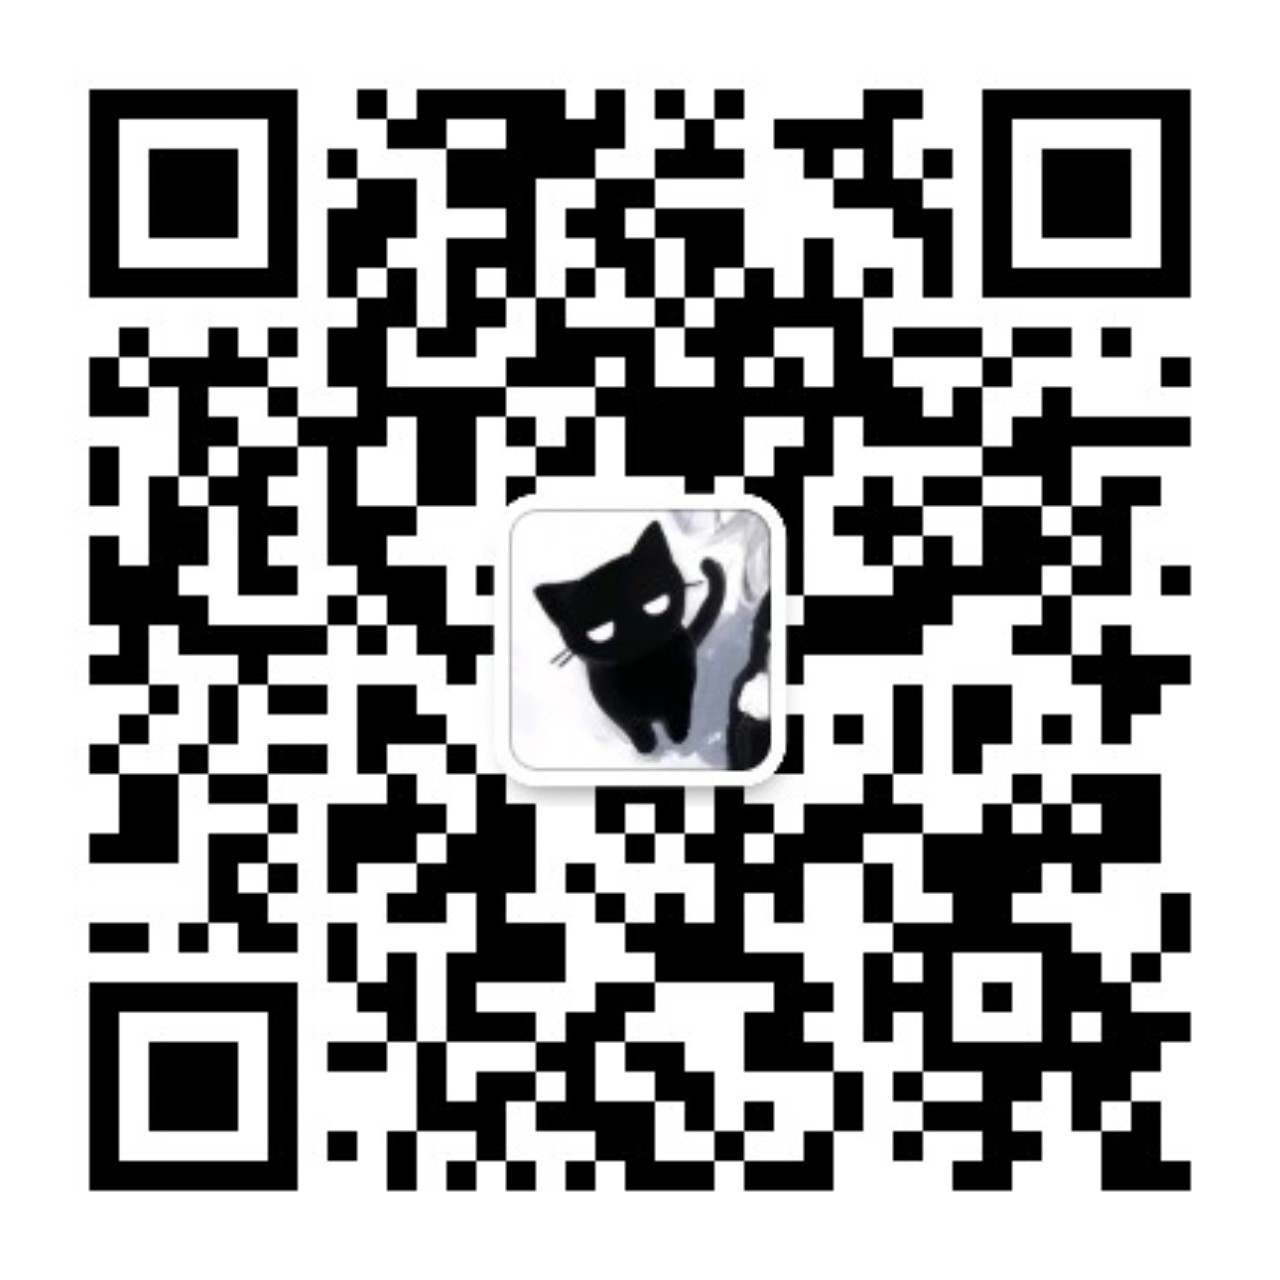
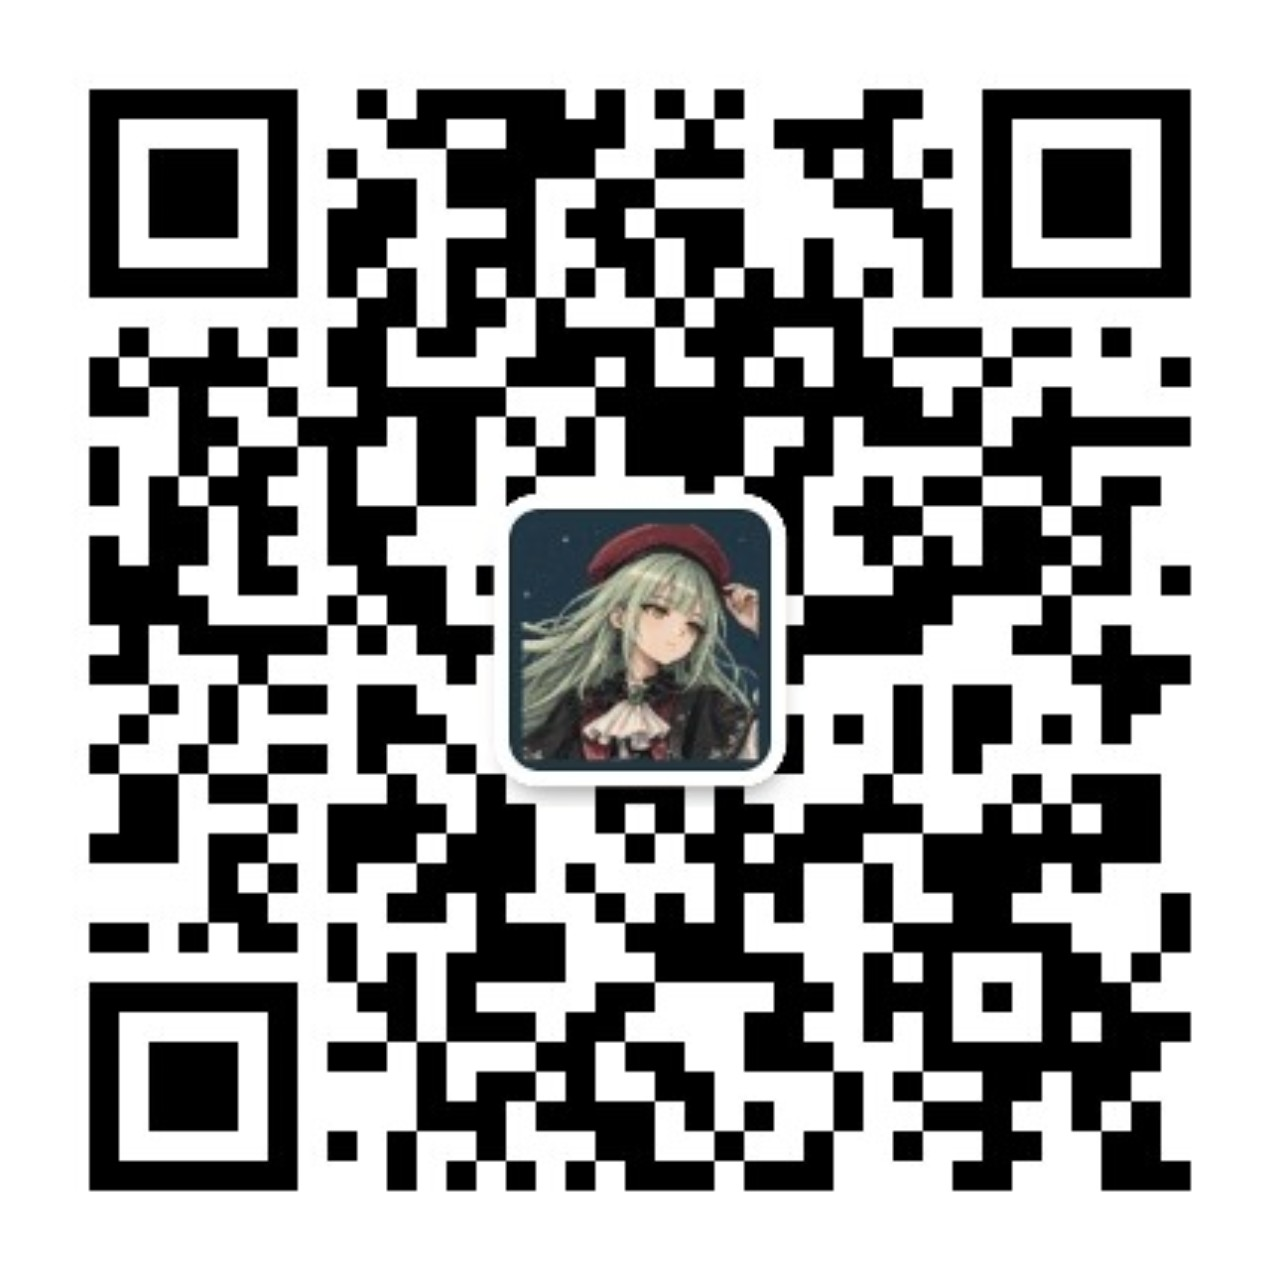
Refresh portfolio previews and contact assets

Changed region(s): [[0.375, 0.375, 0.625, 0.625]]

diff --git a/index.html b/index.html
@@ -3,7 +3,7 @@
 <head>
   <meta charset="UTF-8">
   <meta name="viewport" content="width=device-width, initial-scale=1.0">
-  <link rel="icon" href="assets/avatar.jpg">
+  <link rel="icon" type="image/png" href="assets/avatar-profile.png">
   <title>RoL1n_SrP</title>
   <meta name="description" content="RoL1n_SrP's personal homepage — developer, ACG enthusiast, guitarist.">
   <!-- Self-hosted webfonts, generated at build time by scripts/build-fonts.mjs.
@@ -190,7 +190,7 @@
     <div id="featured-projects" class="featured-projects">
       <a href="https://cfg.srprolin.top" target="_blank" rel="noopener noreferrer" class="featured-card reveal">
         <div class="featured-card-bg">
-          <img src="assets/works/srp-cfg-cs2.webp" alt="SrP-CFG_ForCS2" loading="lazy">
+          <img src="assets/works/srp-cfg-overview-zh.webp" alt="SrP-CFG desktop app overview" loading="lazy">
         </div>
         <div class="featured-card-overlay">
           <div class="featured-card-header">
@@ -198,6 +198,19 @@
             <svg class="featured-card-icon" width="18" height="18" stroke-width="2.2"><use href="#icon-arrow-out"/></svg>
           </div>
           <p class="featured-card-desc">Modular CS2 CFG Runtime, Desktop Installer &amp; Searchable Knowledge Base</p>
+        </div>
+      </a>
+
+      <a href="https://github.com/RolinShmily/sekiro-mod-manager" target="_blank" rel="noopener noreferrer" class="featured-card reveal">
+        <div class="featured-card-bg">
+          <img src="assets/works/sekiro-mod-manager.webp" alt="Sekiro Mod Manager module management screen" loading="lazy">
+        </div>
+        <div class="featured-card-overlay">
+          <div class="featured-card-header">
+            <h3 class="featured-card-title">Sekiro Mod Manager</h3>
+            <svg class="featured-card-icon" width="18" height="18" stroke-width="2.2"><use href="#icon-arrow-out"/></svg>
+          </div>
+          <p class="featured-card-desc">Zero-copy NTFS mod deployment, conflict resolution &amp; portable mod packs for Sekiro</p>
         </div>
       </a>
 
@@ -223,7 +236,7 @@
             <h3 class="featured-card-title">porter-workflow</h3>
             <svg class="featured-card-icon" width="18" height="18" stroke-width="2.2"><use href="#icon-arrow-out"/></svg>
           </div>
-          <p class="featured-card-desc">Automated video localization, multi-engine ASR, AI translation, and standard FFmpeg release pipeline for AI agents.</p>
+          <p class="featured-card-desc">Bilingual video localization with Whisper &amp; FFmpeg — CLI, MCP, WebUI &amp; Agent Skill</p>
         </div>
       </a>
 
@@ -312,7 +325,7 @@
       <h2 id="wechat-dialog-title">WeChat Official Account</h2>
       <p>Hover or tap the card to reveal</p>
       <div class="wechat-qr-shell" role="group" aria-label="WeChat Official Account QR code">
-        <img id="wechat-qr-image" src="assets/wechat-official-account.jpg" alt="WeChat Official Account QR code" width="320" height="320">
+        <img id="wechat-qr-image" src="assets/wechat-official-account.jpg?v=55931868" alt="WeChat Official Account QR code" width="320" height="320">
         <button class="wechat-qr-cover" type="button" aria-controls="wechat-qr-image" aria-pressed="false">
           <span class="wechat-qr-cover-icon" aria-hidden="true">
             <img class="wechat-qr-brand-icon" src="assets/svg/wechat.svg" alt="">
